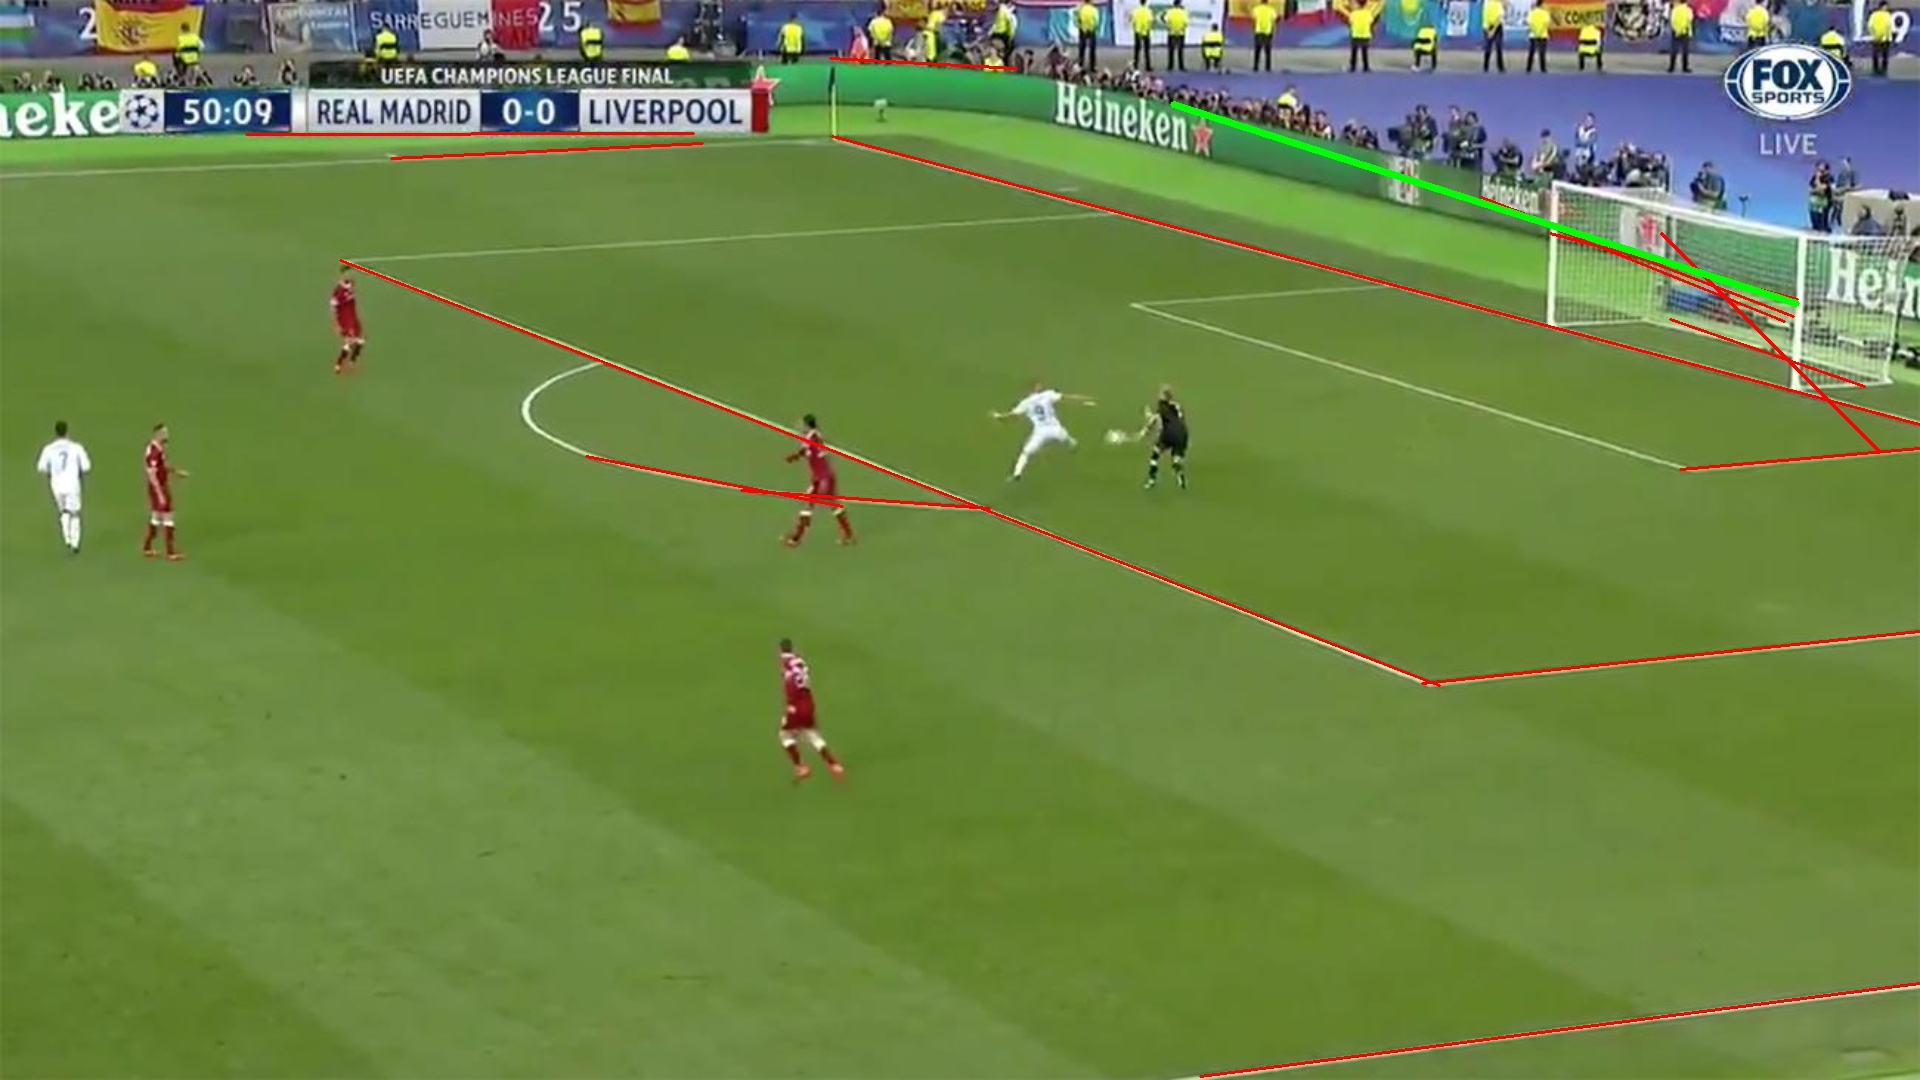
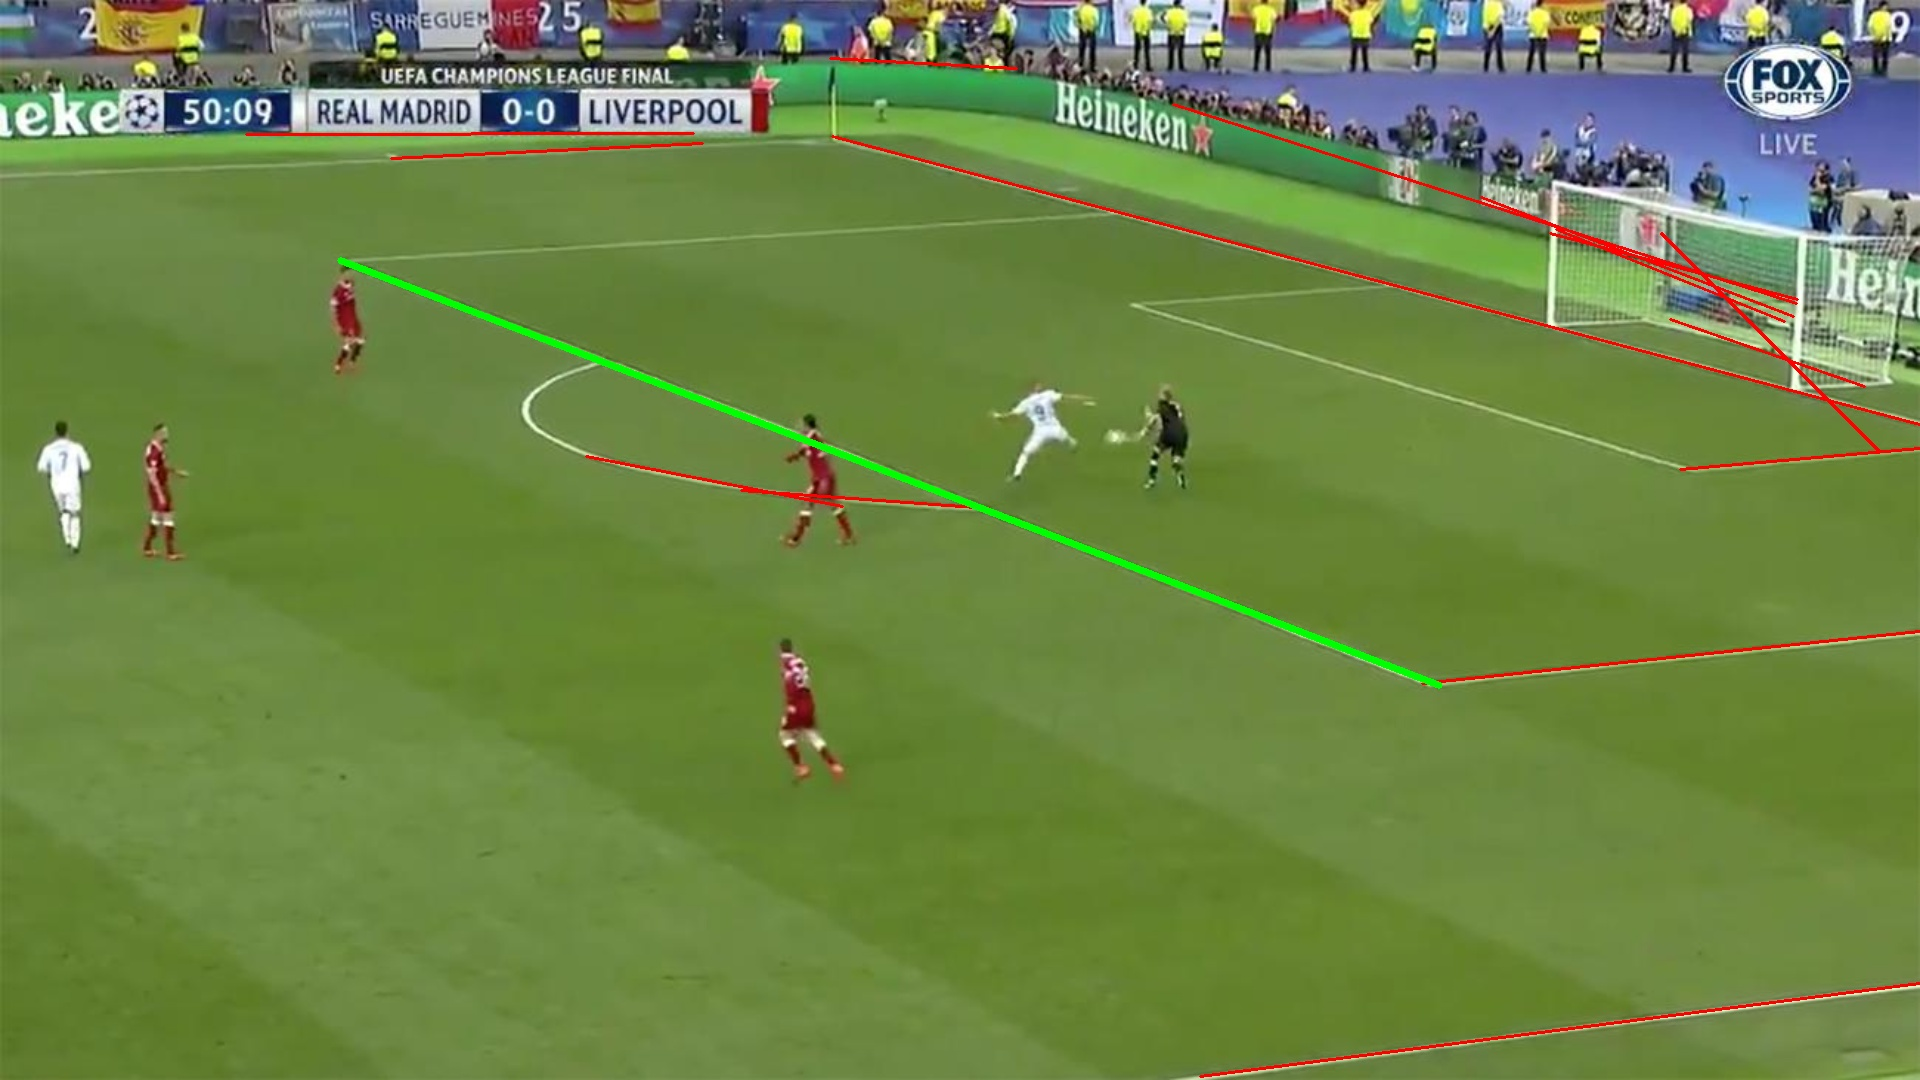
Fix

diff --git a/filter.py b/filter.py
@@ -169,21 +169,28 @@ class ImageHolder:
         len_idx = [np.sqrt((x1 - x2) ** 2 + (y1 - y2) ** 2) for a, b, [x1, y1, x2, y2] in total_points]
         for i in range(len(total_points)):
             total_points[i] += [len_idx[i], x_lines_idx[i]]
-        # print(total_points)
 
         total_points_sorted = sorted(total_points, key=lambda l: l[3], reverse=True)
         total_points_sorted_crop = total_points_sorted[:int(len(total_points_sorted))]
 
+        # print(total_points_sorted)
+
         index_max_x_lines = 0
         max_lines = 0
-        for i, (a, b, [x1, y1, x2, y2], len_, x_lines) in enumerate(total_points_sorted_crop):
-            if x_lines > max_lines:
+        max_len = 0
+        a, b = 0, 0
+        for i, (a_, b_, [x1, y1, x2, y2], len_, x_lines) in enumerate(total_points_sorted_crop):
+            if (x_lines > max_lines or \
+                    (x_lines == max_lines and (((a < 0 and a_ < 0) and b_ < b) or ((a > 0 and a_ > 0) and b_ > b)))) \
+                    and len_ > 0.8 * max_len:
+                a, b = a_, b_
+                max_len = len_
                 max_lines = x_lines
                 index_max_x_lines = i
+        # print(index_max_x_lines)
+
         a, b, [x1, y1, x2, y2], len_, x_lines = total_points_sorted_crop[index_max_x_lines]
         cv.line(self.dst_img, (x1, y1), (x2, y2), (0, 255, 0), 5)
-        # x1, y1, x2, y2 = total_points[len_idx.index(max(len_idx))][-1]
-        # cv.line(self.dst_img, (x1, y1), (x2, y2), (0, 255, 0), 4)
 
         self.save_image()
         return total_points_sorted, self.dst_img

diff --git a/main.py b/main.py
@@ -2,9 +2,7 @@ from filter import ImageHolder
 import multiprocessing
 import os
 
-
 IMAGE_DIR = "images"
-
 
 # stack = []
 # stack_full = True
@@ -17,13 +15,12 @@ if __name__ == "__main__":
     ImH = ImageHolder()
     processes = []
     for i, filename in enumerate(os.listdir(IMAGE_DIR)):
-        processes += [multiprocessing.Process(target=ImH.apply_filters, args=(IMAGE_DIR+'/'+filename,))]
+        processes += [multiprocessing.Process(target=ImH.apply_filters, args=(IMAGE_DIR + '/' + filename,))]
 
     processes_run = []
     stack = []
     for proc in processes:
         proc.start()
-
 
     #
     # processes_finished = []
